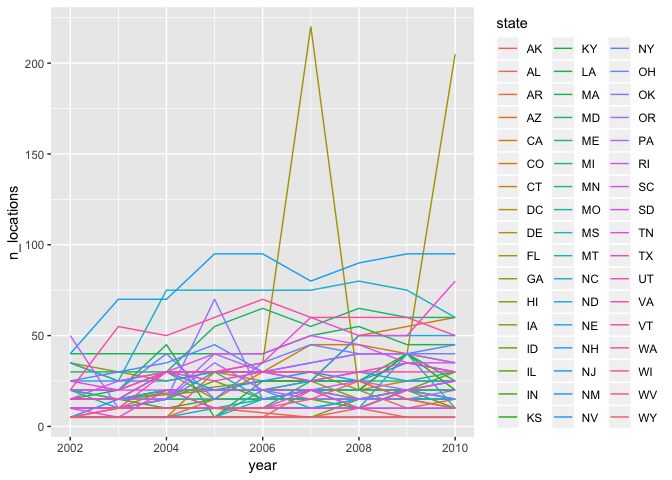
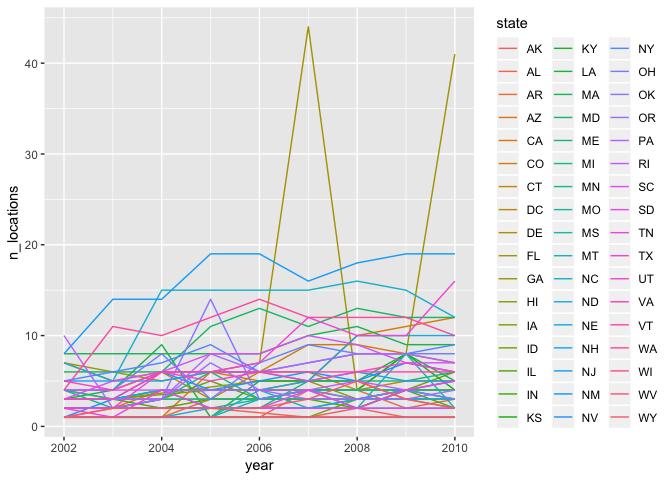
Anotha 1 (commit)

diff --git a/p8105_hw3_edm2152.md b/p8105_hw3_edm2152.md
@@ -43,6 +43,7 @@ Make a “spaghetti plot” that shows the number of observations in each state 
 
 ``` r
 brfss_data %>% 
+  distinct(state, county, year) %>% 
   group_by(state, year) %>% 
   summarize(n_locations = n()) %>% 
   ggplot(aes(x = year, y = n_locations, color = state)) + 
@@ -114,8 +115,6 @@ distinct_products = instacart_data %>%
 
 In the instacart dataset there are 15 variables which include identifiers for aisle, order, product and customer along with a corresponding numerical ID in some cases (aisle and product for example). The instacart dataset also includes 1384617 observations which is equivalent to a product from an order. There are 131209 unique users in the dataset that submitted an order, 21 distinct departments that recieved an order, and 39123 distinct products ordered.
 
--   How many aisles are there, and which aisles are the most items ordered from?
-
 ``` r
 distinct_aisles = 
   instacart_data %>% 
@@ -139,19 +138,62 @@ instacart_data %>%
 |        120| yogurt                     |         55240|
 |         21| packaged cheese            |         41699|
 
-There are 134 distinct aisles in the dataset and the top five aisles with the most items ordered from are: \* Fresh Vegetables
+There are 134 distinct aisles in the dataset and the top five aisles with the most items ordered from are:
 
--   Fresh Fruits
+-   Fresh Vegetables (150,609 items ordered)
 
--   Packaged Vegetables & Fruits
+-   Fresh Fruits (150,473 items ordered)
 
--   Yogurt
+-   Packaged Vegetables & Fruits (78,493 items ordered)
 
--   Packaged Cheese
+-   Yogurt (55,240 items ordered)
 
--   Make a plot that shows the number of items ordered in each aisle. Order aisles sensibly, and organize your plot so others can read it.
+-   Packaged Cheese (41,699 items ordered)
+
+Make a plot that shows the number of items ordered in each aisle. Order aisles sensibly, and organize your plot so others can read it.
+
+``` r
+instacart_data %>% 
+  group_by(aisle_id, aisle) %>% 
+  summarize(number_items = n()) %>% 
+  arrange(desc(number_items)) %>% 
+  ggplot(aes(x = reorder(aisle, -number_items), y = number_items, fill = aisle)) +
+  geom_col() +
+  theme(axis.text.x = element_text(angle = 50, hjust = 1, size = 8),
+        legend.position = "none")
+```
+
+![](p8105_hw3_edm2152_files/figure-markdown_github/items%20plot-1.png)
 
 -   Make a table showing the most popular item in each of the aisles “baking ingredients”, “dog food care”, and “packaged vegetables fruits”.
+
+``` r
+instacart_data %>% 
+  filter(aisle == "baking ingredients" | aisle == "dog food care" | aisle == "packaged vegetables fruits") %>% 
+  group_by(aisle, product_name) %>% 
+  summarize(number_items = n()) %>% 
+  top_n(5, number_items) %>% 
+  arrange(desc(number_items)) %>% 
+  knitr::kable()
+```
+
+| aisle                      | product\_name                                   |  number\_items|
+|:---------------------------|:------------------------------------------------|--------------:|
+| packaged vegetables fruits | Organic Baby Spinach                            |           9784|
+| packaged vegetables fruits | Organic Raspberries                             |           5546|
+| packaged vegetables fruits | Organic Blueberries                             |           4966|
+| packaged vegetables fruits | Seedless Red Grapes                             |           4059|
+| packaged vegetables fruits | Organic Grape Tomatoes                          |           3823|
+| baking ingredients         | Light Brown Sugar                               |            499|
+| baking ingredients         | Pure Baking Soda                                |            387|
+| baking ingredients         | Cane Sugar                                      |            336|
+| baking ingredients         | Premium Pure Cane Granulated Sugar              |            329|
+| baking ingredients         | Organic Vanilla Extract                         |            327|
+| dog food care              | Snack Sticks Chicken & Rice Recipe Dog Treats   |             30|
+| dog food care              | Organix Chicken & Brown Rice Recipe             |             28|
+| dog food care              | Small Dog Biscuits                              |             26|
+| dog food care              | Standard Size Pet Waste bags                    |             25|
+| dog food care              | Organix Grain Free Chicken & Vegetable Dog Food |             24|
 
 -   Make a table showing the mean hour of the day at which Pink Lady Apples and Coffee Ice Cream are ordered on each day of the week; format this table for human readers (i.e. produce a 2 x 7 table).
 
